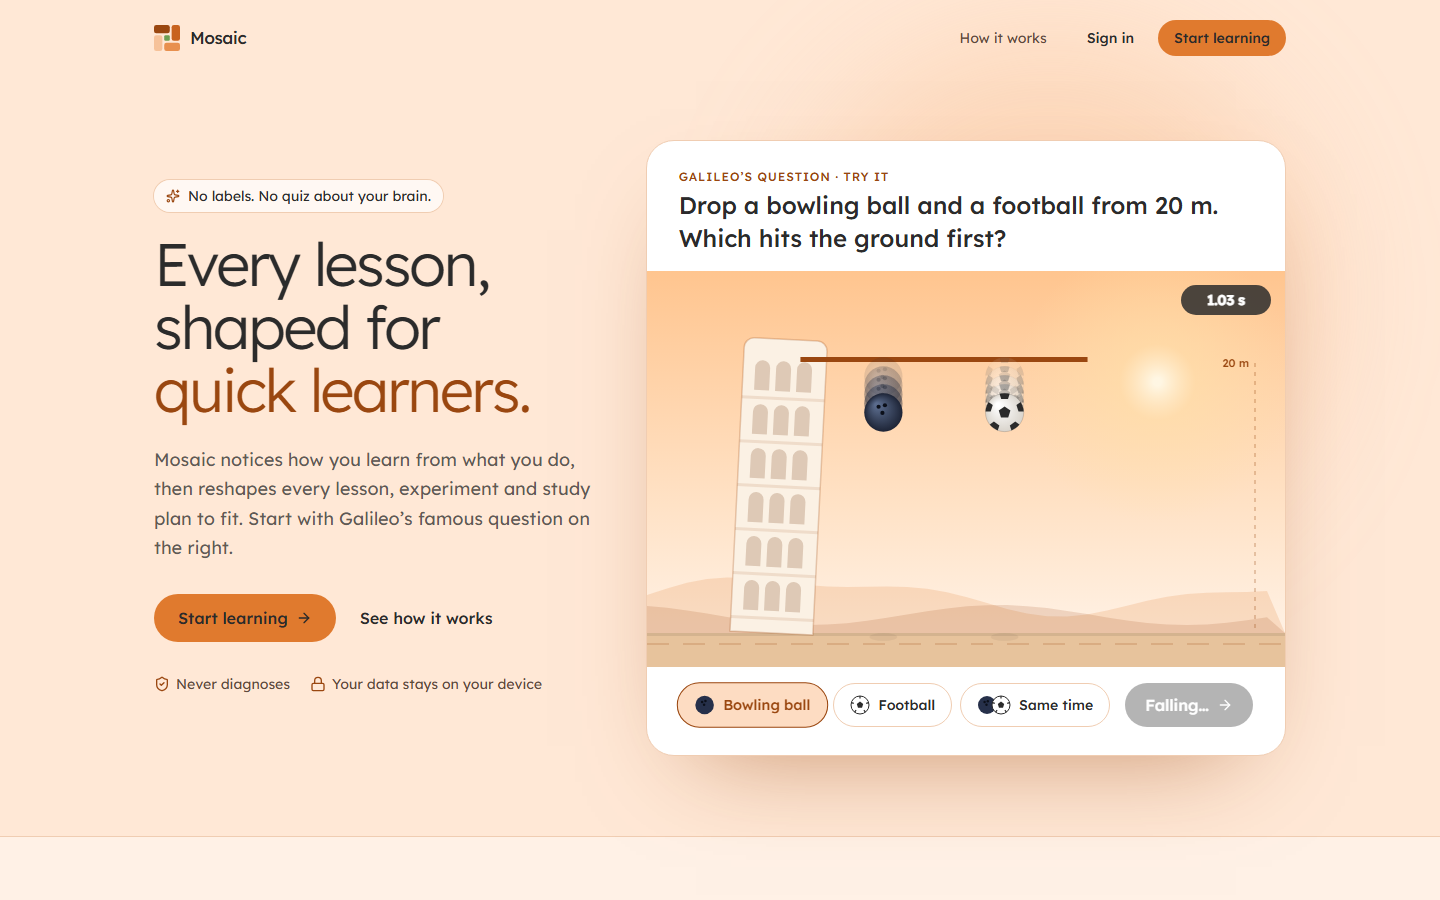
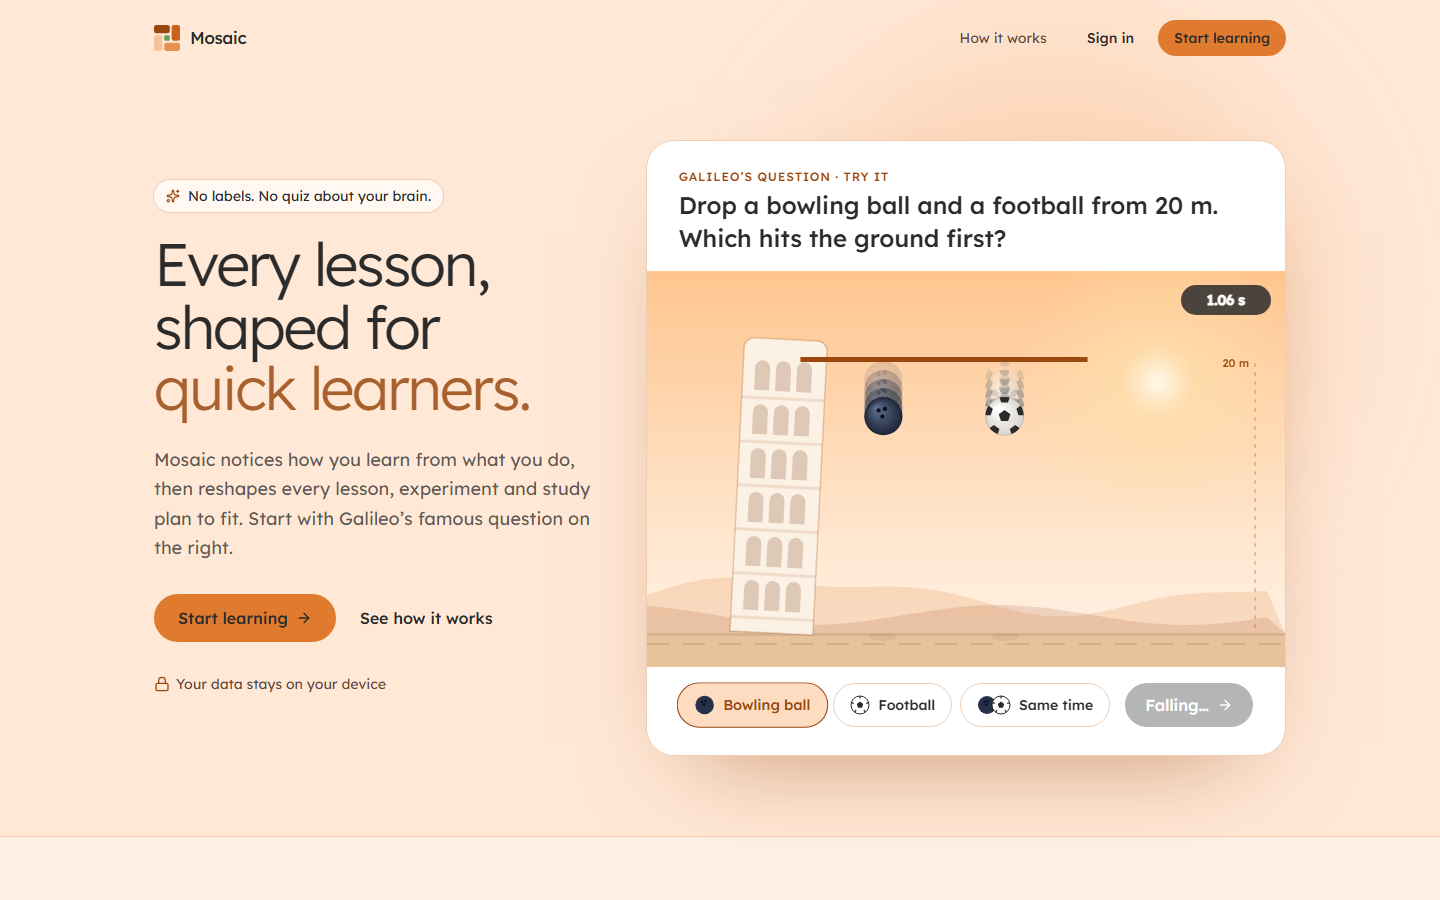
fix: remove the "Never diagnoses" label from the landing hero

diff --git a/app/page.tsx b/app/page.tsx
@@ -1,4 +1,4 @@
-import { Activity, ArrowRight, CalendarDays, Check, FlaskConical, Lock, ShieldCheck, Sparkles, X } from "lucide-react";
+import { Activity, ArrowRight, CalendarDays, Check, FlaskConical, Lock, Sparkles, X } from "lucide-react";
 import Link from "next/link";
 import { ConceptPreview } from "@/components/concept-preview";
 import { LearningLoop } from "@/components/home/learning-loop";
@@ -96,9 +96,6 @@ export default function Landing() {
               </a>
             </div>
             <ul className="mt-8 flex flex-wrap gap-x-5 gap-y-2 text-sm text-muted">
-              <li className="flex items-center gap-1.5">
-                <ShieldCheck className="h-4 w-4 text-accent" aria-hidden /> Never diagnoses
-              </li>
               <li className="flex items-center gap-1.5">
                 <Lock className="h-4 w-4 text-accent" aria-hidden /> Your data stays on your device
               </li>
